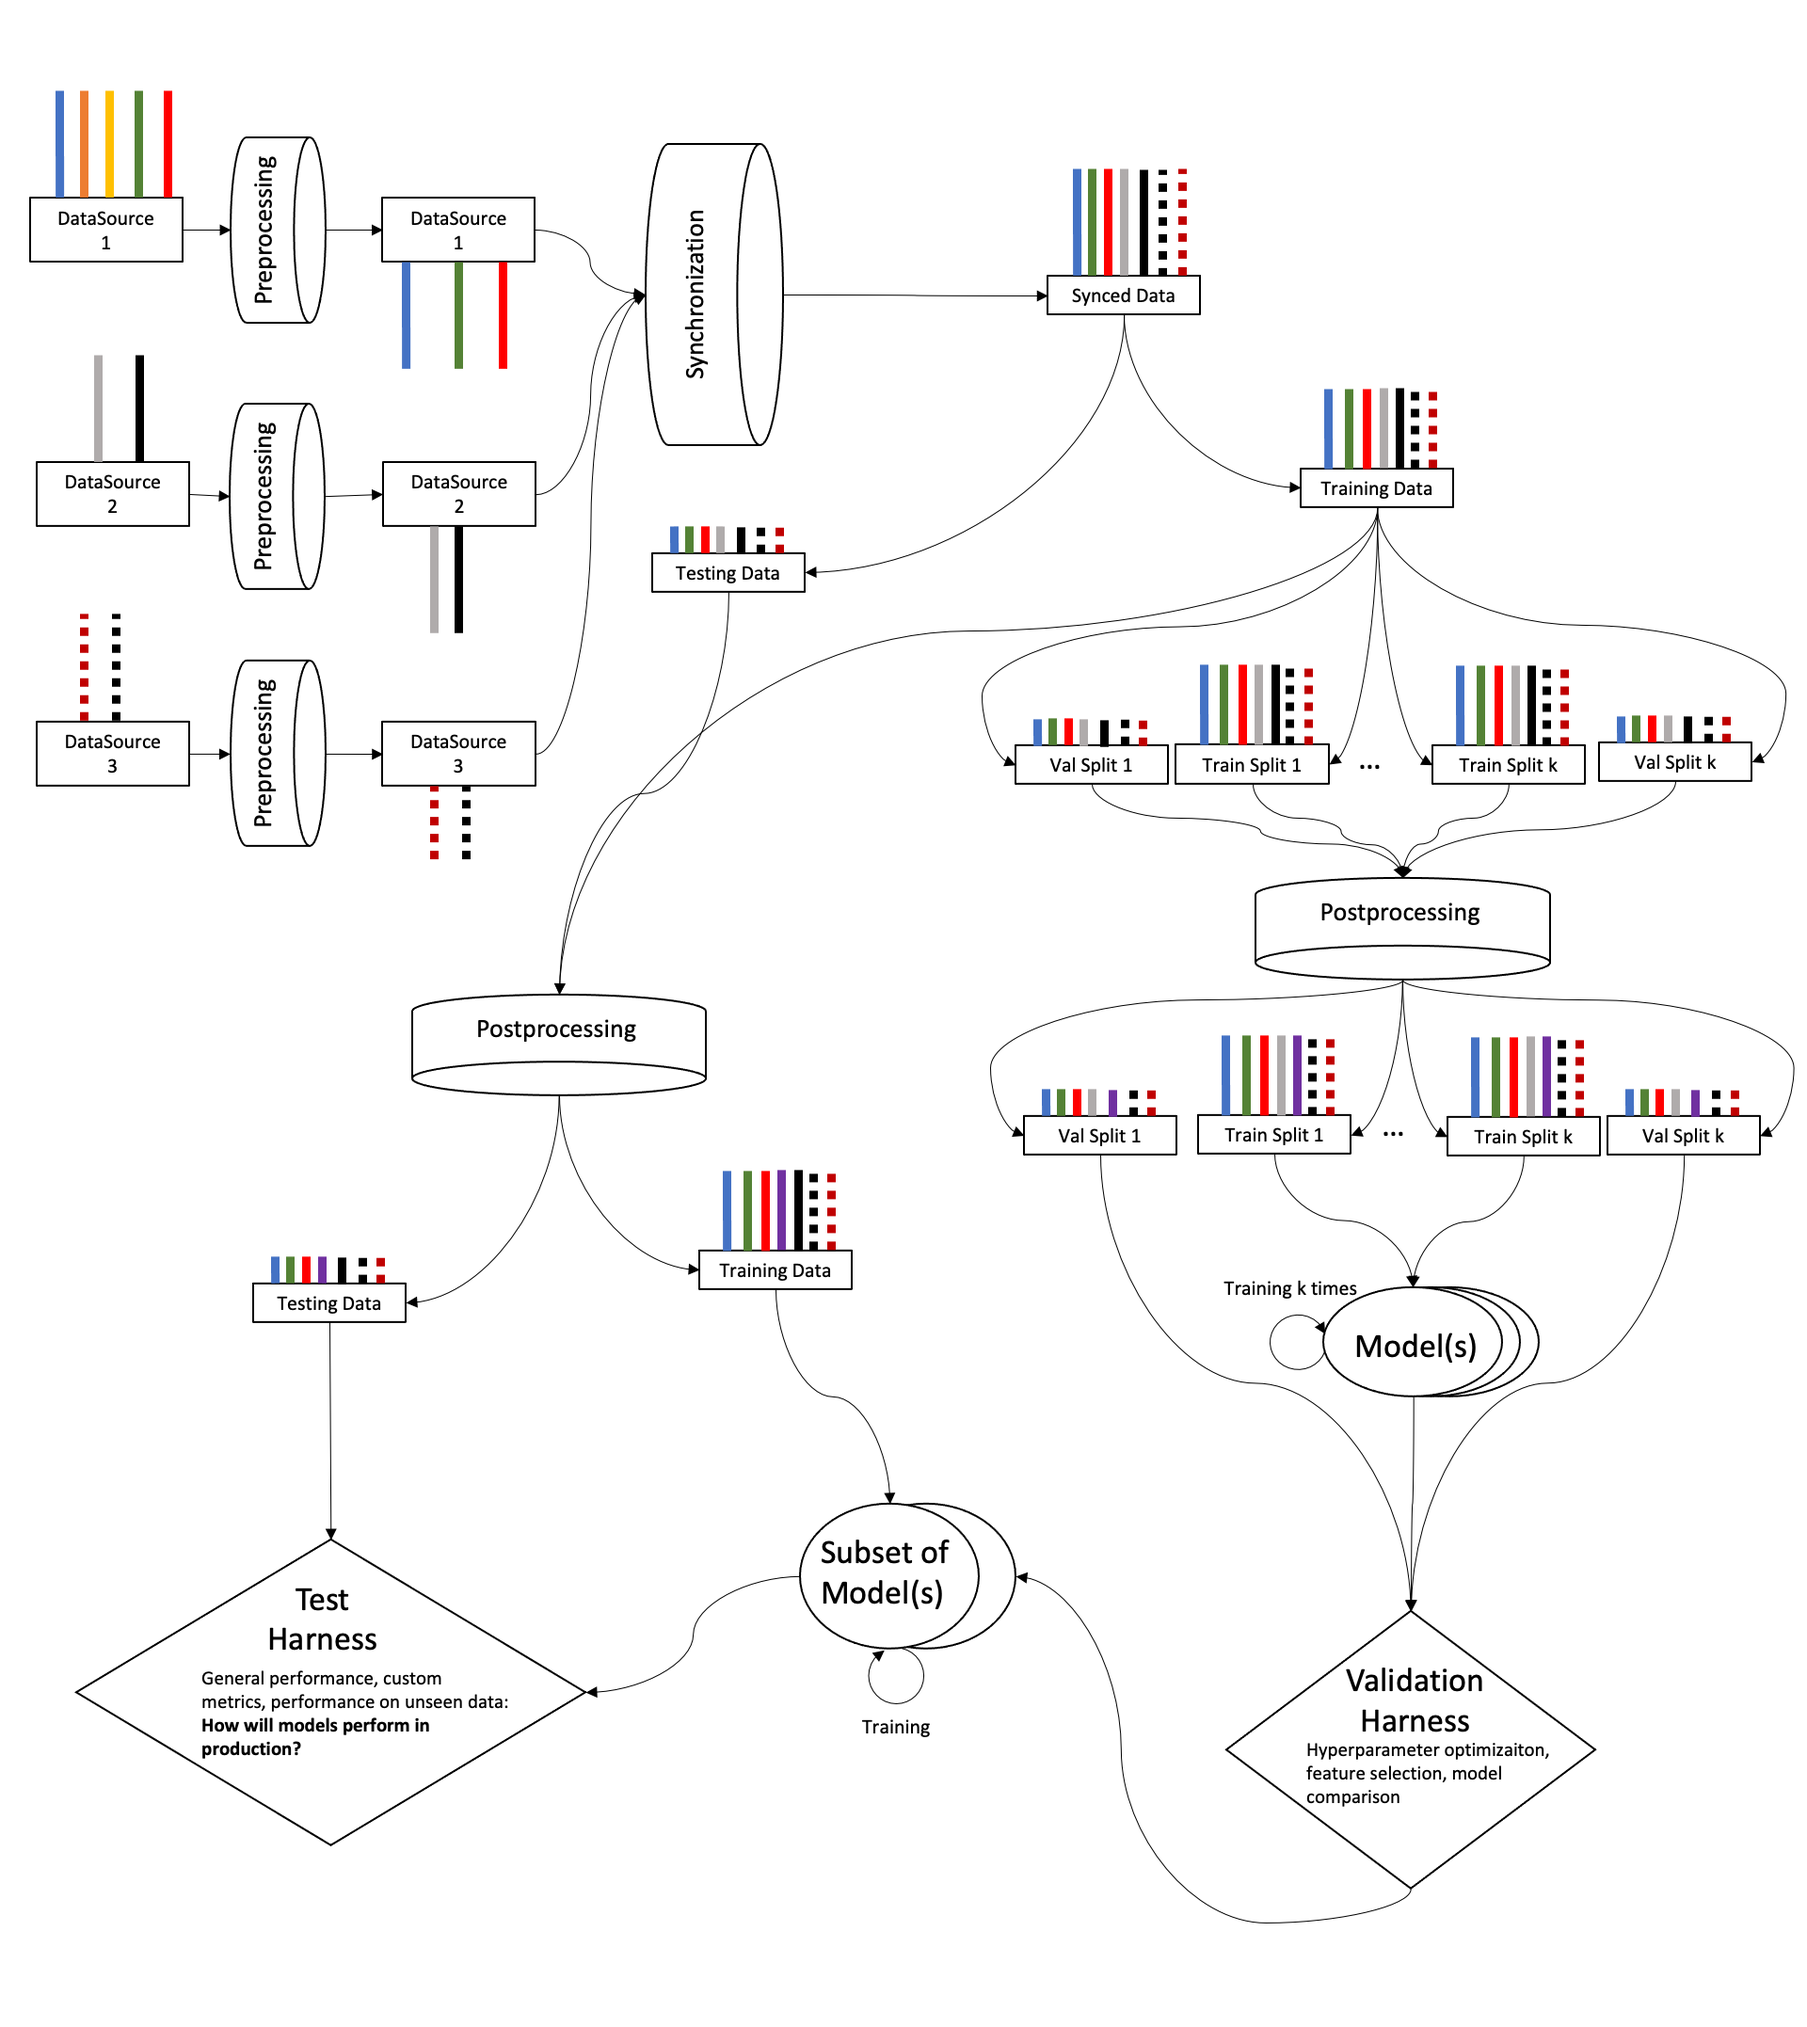
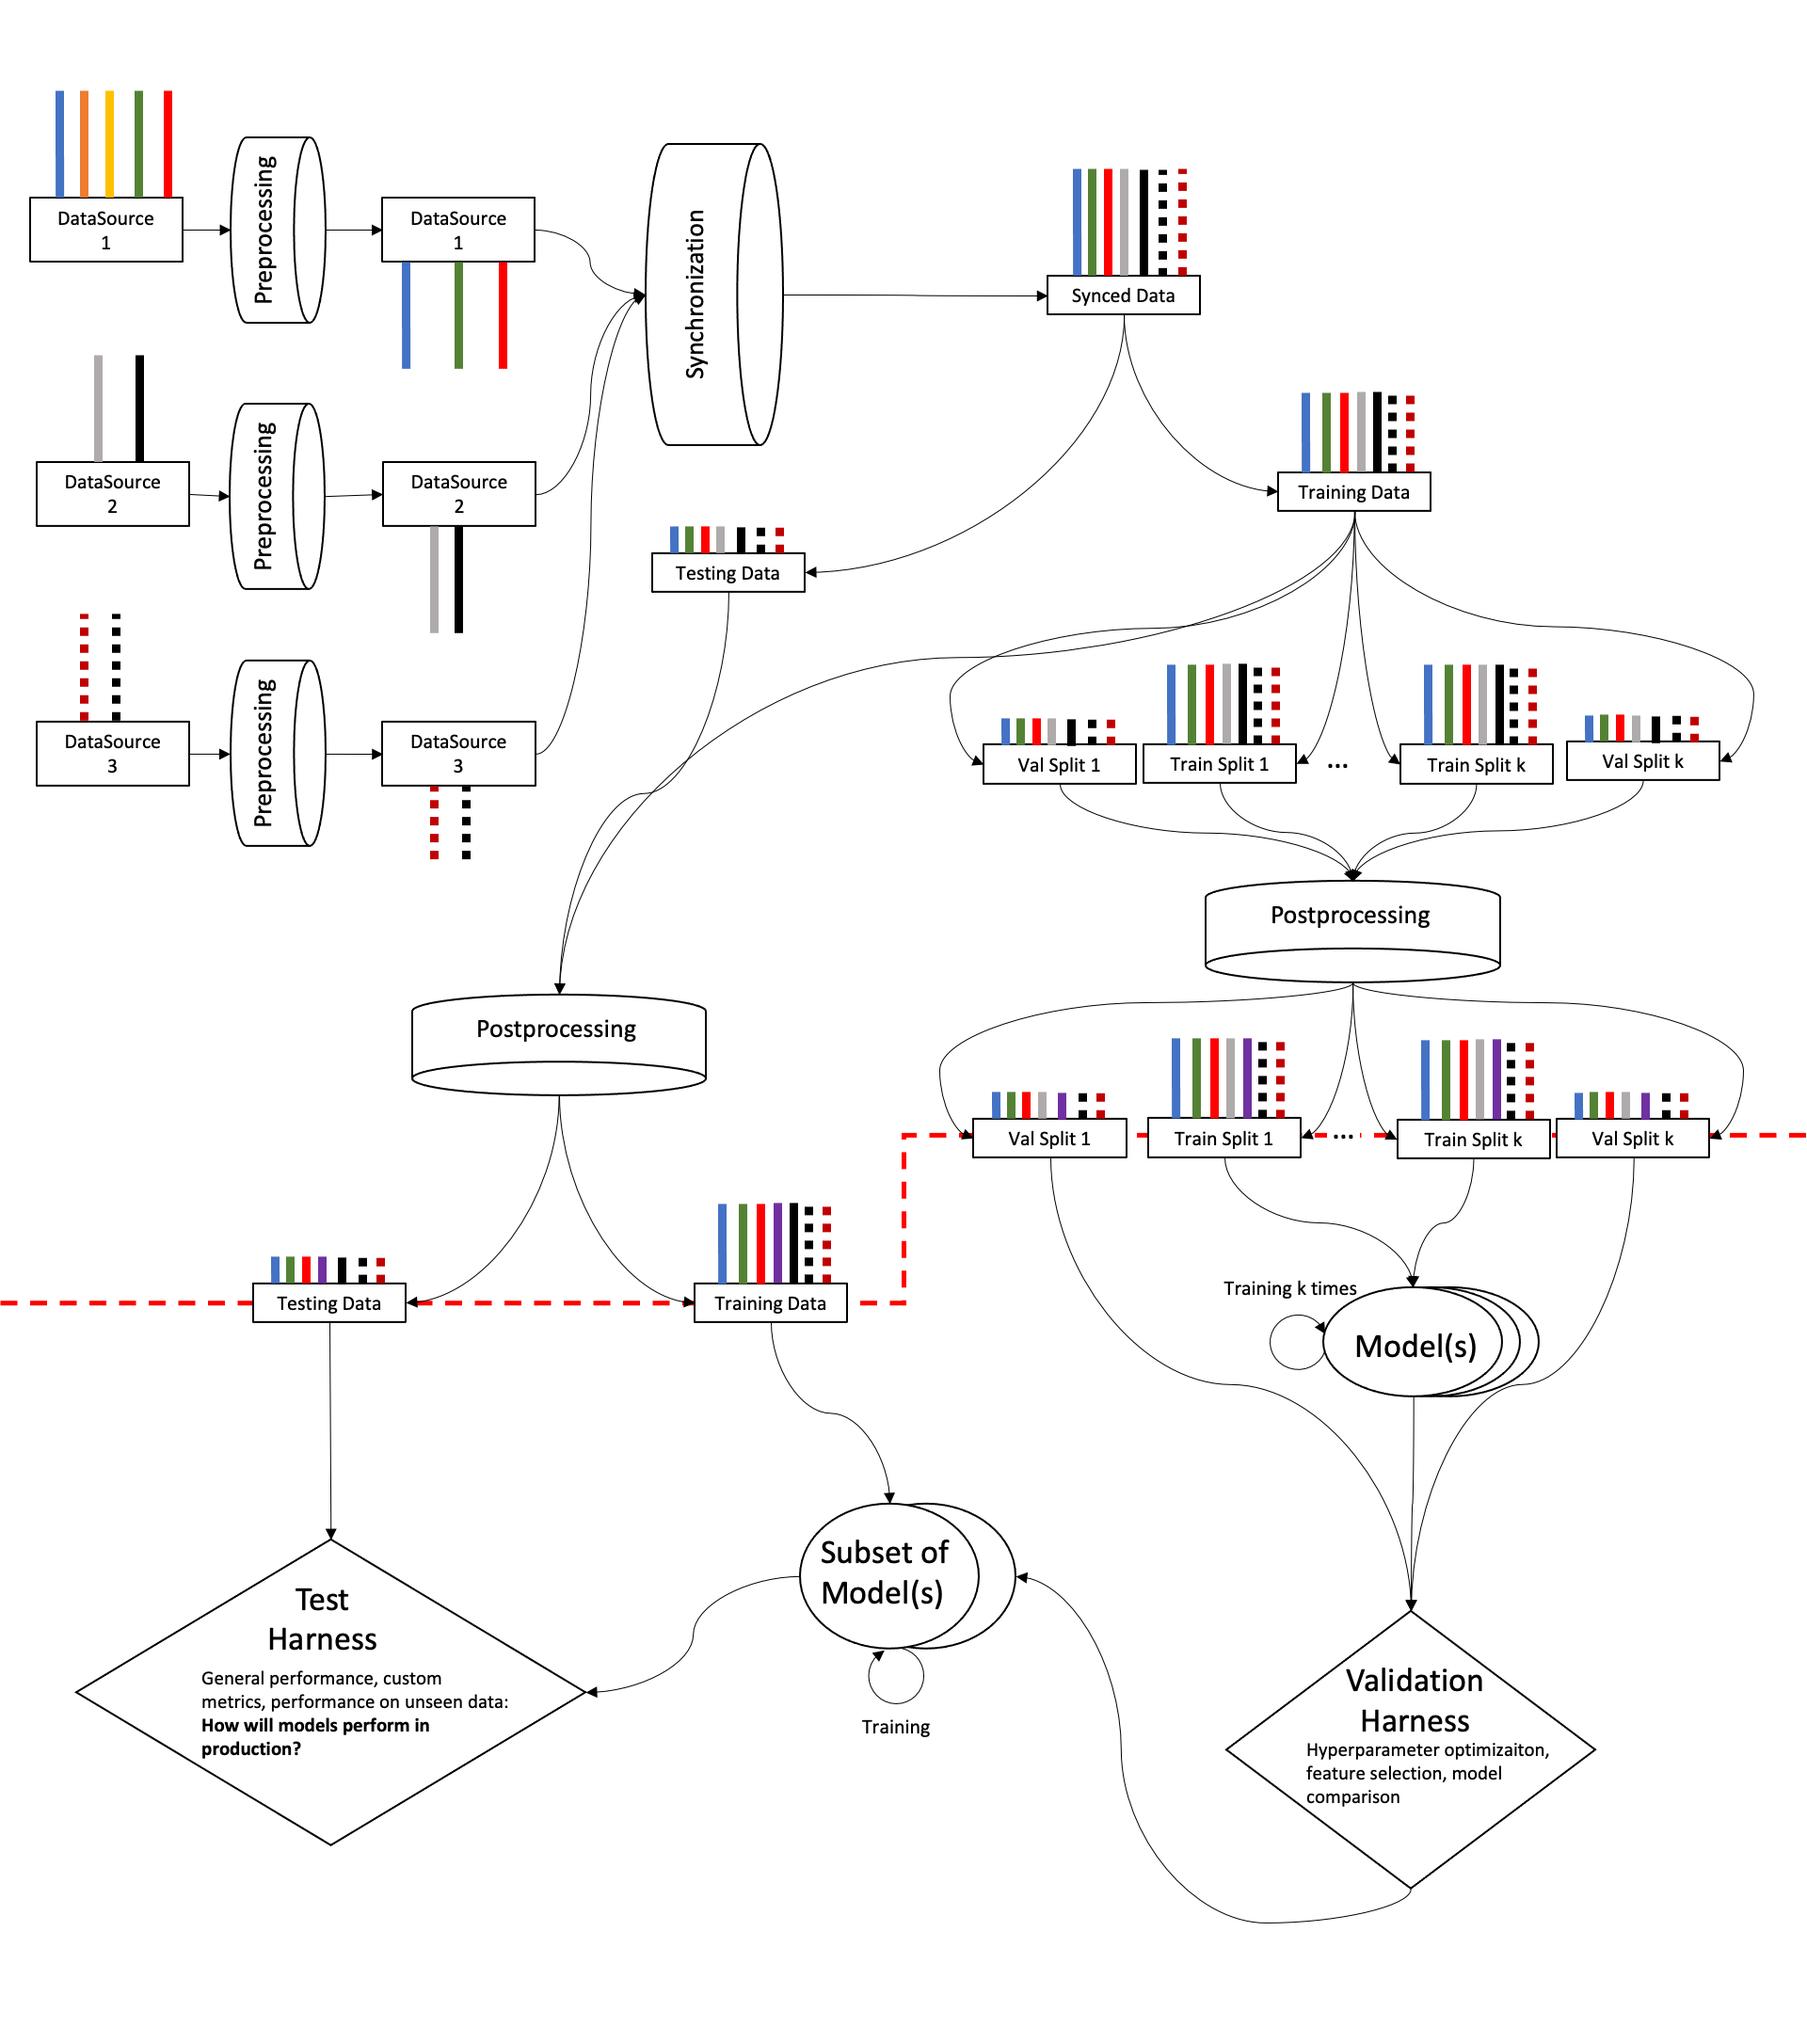
update pipeline flow diagram with distinction between two main steps

diff --git a/docs/pipeline/split/index.html b/docs/pipeline/split/index.html
@@ -30,11 +30,42 @@
 <pre><code class="python">&#34;&#34;&#34;
 Functions for splitting data
 &#34;&#34;&#34;
+from typing import Optional
+import numpy as np
+import pandas as pd
+from nowcastlib.pipeline import structs
 
-def train_test_split_sparse(sparse_df, block_locs=None):
+
+def train_test_split_sparse(
+    sparse_df: pd.core.frame.DataFrame,
+    config: structs.EvaluationOptions,
+    block_locs: Optional[np.ndarray] = None,
+):
     &#34;&#34;&#34;
     Splits a sparse dataframe in train and test sets
+
+    Parameters
+    ---------
+    sparse_df : pandas.core.frame.DataFrame
+        The DataFrame we wish to split into train and test sets
+    config : structs.EvaluationOptions
+        config options for determining where to split our datasets
+    block_locs : numpy.ndarray, default None
+
+    Returns
+    -------
+    train_data : tuple
+        Tuple of length 2 containing the resulting training data.
+        The first element is the dataframe, the second element
+        is the updated accompanying `block_locs` if originally
+        provided, `None` otherwise
+    test_data : tuple
+        Tuple of length 2 containing the resulting testing data.
+        The first element is the dataframe, the second element
+        is the updated accompanying `block_locs` if originally
+        provided, `None` otherwise.
     &#34;&#34;&#34;
+
 
 def rep_holdout_split_sparse(sparse_df, block_locs=None):
     &#34;&#34;&#34;
@@ -51,17 +82,64 @@ def rep_holdout_split_sparse(sparse_df, block_locs=None):
 <h2 class="section-title" id="header-functions">Functions</h2>
 <dl>
 <dt id="nowcastlib.pipeline.split.train_test_split_sparse"><code class="name flex">
-<span>def <span class="ident">train_test_split_sparse</span></span>(<span>sparse_df, block_locs=None)</span>
+<span>def <span class="ident">train_test_split_sparse</span></span>(<span>sparse_df: pandas.core.frame.DataFrame, config: <a title="nowcastlib.pipeline.structs.EvaluationOptions" href="../structs.html#nowcastlib.pipeline.structs.EvaluationOptions">EvaluationOptions</a>, block_locs: Union[numpy.ndarray, NoneType] = None)</span>
 </code></dt>
 <dd>
-<div class="desc"><p>Splits a sparse dataframe in train and test sets</p></div>
+<div class="desc"><p>Splits a sparse dataframe in train and test sets</p>
+<h2 id="parameters">Parameters</h2>
+<dl>
+<dt><strong><code>sparse_df</code></strong> :&ensp;<code>pandas.core.frame.DataFrame</code></dt>
+<dd>The DataFrame we wish to split into train and test sets</dd>
+<dt><strong><code>config</code></strong> :&ensp;<code>structs.EvaluationOptions</code></dt>
+<dd>config options for determining where to split our datasets</dd>
+<dt><strong><code>block_locs</code></strong> :&ensp;<code>numpy.ndarray</code>, default <code>None</code></dt>
+<dd>&nbsp;</dd>
+</dl>
+<h2 id="returns">Returns</h2>
+<dl>
+<dt><strong><code>train_data</code></strong> :&ensp;<code>tuple</code></dt>
+<dd>Tuple of length 2 containing the resulting training data.
+The first element is the dataframe, the second element
+is the updated accompanying <code>block_locs</code> if originally
+provided, <code>None</code> otherwise</dd>
+<dt><strong><code>test_data</code></strong> :&ensp;<code>tuple</code></dt>
+<dd>Tuple of length 2 containing the resulting testing data.
+The first element is the dataframe, the second element
+is the updated accompanying <code>block_locs</code> if originally
+provided, <code>None</code> otherwise.</dd>
+</dl></div>
 <details class="source">
 <summary>
 <span>Expand source code</span>
 </summary>
-<pre><code class="python">def train_test_split_sparse(sparse_df, block_locs=None):
+<pre><code class="python">def train_test_split_sparse(
+    sparse_df: pd.core.frame.DataFrame,
+    config: structs.EvaluationOptions,
+    block_locs: Optional[np.ndarray] = None,
+):
     &#34;&#34;&#34;
     Splits a sparse dataframe in train and test sets
+
+    Parameters
+    ---------
+    sparse_df : pandas.core.frame.DataFrame
+        The DataFrame we wish to split into train and test sets
+    config : structs.EvaluationOptions
+        config options for determining where to split our datasets
+    block_locs : numpy.ndarray, default None
+
+    Returns
+    -------
+    train_data : tuple
+        Tuple of length 2 containing the resulting training data.
+        The first element is the dataframe, the second element
+        is the updated accompanying `block_locs` if originally
+        provided, `None` otherwise
+    test_data : tuple
+        Tuple of length 2 containing the resulting testing data.
+        The first element is the dataframe, the second element
+        is the updated accompanying `block_locs` if originally
+        provided, `None` otherwise.
     &#34;&#34;&#34;</code></pre>
 </details>
 </dd>

diff --git a/docs/pipeline/index.html b/docs/pipeline/index.html
@@ -97,26 +97,31 @@ from . import structs
 from . import preprocess
 from . import sync
 from . import split
-# from . import postprocess
+from . import postprocess
 
 
-# def pipe_dataset(config: structs.DataSet):
-#     &#34;&#34;&#34;
-#     Runs all configured steps of the Nowcast Library Pipeline
-#     on a set of data described by the input DataSet instance
-#     &#34;&#34;&#34;
-#     preprocessed_dfs = preprocess.preprocess_dataset(config)
-
-#     chunked_df, chunk_locs = sync.synchronize_dataset(config, preprocessed_dfs)
-
-#     train_chunked_df, test_chunked_df = split.train_test_split_sparse(
-#         chunked_df, chunk_locs
-#     )
-#     val_train_data, val_test_data = split.rep_holdout_split(train_data, config)
-
-#     val_train_data, val_test_data = postproces.postprocess_dataset(
-#         config, val_train_data, val_test_data
-#     )</code></pre>
+def pipe_dataset(config: structs.DataSet):
+    &#34;&#34;&#34;
+    Runs all configured steps of the Nowcast Library Pipeline
+    on a set of data described by the input DataSet instance
+    &#34;&#34;&#34;
+    # preprocessing
+    preprocessed_dfs = preprocess.preprocess_dataset(config)
+    # syncing
+    chunked_df, chunk_locs = sync.synchronize_dataset(config, preprocessed_dfs)
+    # splitting
+    # outer train and test split
+    train_data, test_data = split.train_test_split_sparse(
+        chunked_df, config, chunk_locs
+    )
+    # inner train and validation split(s)
+    val_train, val_test = split.rep_holdout_split(train_data[0], config)
+    # postprocessing
+    proc_val_train, proc_val_test = postprocess.postprocess_dataset(
+        config,
+        val_train[0],
+        val_test_data[0],
+    )</code></pre>
 </details>
 </section>
 <section>
@@ -153,6 +158,43 @@ Classes listed here should be viewed as dictionaries, with class
 <section>
 </section>
 <section>
+<h2 class="section-title" id="header-functions">Functions</h2>
+<dl>
+<dt id="nowcastlib.pipeline.pipe_dataset"><code class="name flex">
+<span>def <span class="ident">pipe_dataset</span></span>(<span>config: <a title="nowcastlib.pipeline.structs.DataSet" href="structs.html#nowcastlib.pipeline.structs.DataSet">DataSet</a>)</span>
+</code></dt>
+<dd>
+<div class="desc"><p>Runs all configured steps of the Nowcast Library Pipeline
+on a set of data described by the input DataSet instance</p></div>
+<details class="source">
+<summary>
+<span>Expand source code</span>
+</summary>
+<pre><code class="python">def pipe_dataset(config: structs.DataSet):
+    &#34;&#34;&#34;
+    Runs all configured steps of the Nowcast Library Pipeline
+    on a set of data described by the input DataSet instance
+    &#34;&#34;&#34;
+    # preprocessing
+    preprocessed_dfs = preprocess.preprocess_dataset(config)
+    # syncing
+    chunked_df, chunk_locs = sync.synchronize_dataset(config, preprocessed_dfs)
+    # splitting
+    # outer train and test split
+    train_data, test_data = split.train_test_split_sparse(
+        chunked_df, config, chunk_locs
+    )
+    # inner train and validation split(s)
+    val_train, val_test = split.rep_holdout_split(train_data[0], config)
+    # postprocessing
+    proc_val_train, proc_val_test = postprocess.postprocess_dataset(
+        config,
+        val_train[0],
+        val_test_data[0],
+    )</code></pre>
+</details>
+</dd>
+</dl>
 </section>
 <section>
 </section>
@@ -187,6 +229,11 @@ Classes listed here should be viewed as dictionaries, with class
 <li><code><a title="nowcastlib.pipeline.structs" href="structs.html">nowcastlib.pipeline.structs</a></code></li>
 <li><code><a title="nowcastlib.pipeline.sync" href="sync/index.html">nowcastlib.pipeline.sync</a></code></li>
 <li><code><a title="nowcastlib.pipeline.utils" href="utils.html">nowcastlib.pipeline.utils</a></code></li>
+</ul>
+</li>
+<li><h3><a href="#header-functions">Functions</a></h3>
+<ul class="">
+<li><code><a title="nowcastlib.pipeline.pipe_dataset" href="#nowcastlib.pipeline.pipe_dataset">pipe_dataset</a></code></li>
 </ul>
 </li>
 </ul>

diff --git a/docs/pipeline/structs.html b/docs/pipeline/structs.html
@@ -361,6 +361,7 @@ class ValidationOptions:
     train_extent: Optional[float] = attrib(default=0.6, validator=[_normed_val])
     val_extent: Optional[float] = attrib(default=0.1, validator=[_normed_val])
     iterations: Optional[int] = attrib(default=5)
+
     @iterations.validator
     def at_least_3(self, attribute, value):
         &#34;&#34;&#34;ensures at least 3 iterations are used for validation&#34;&#34;&#34;
@@ -381,6 +382,10 @@ class EvaluationOptions:
     &#34;&#34;&#34;
 
     train_split: Union[int, float, str] = attrib()
+    &#34;&#34;&#34;
+    The index, percentage or date to use as the final
+    point in the training set. The closest non-nan row will be used.
+    &#34;&#34;&#34;
     validation: ValidationOptions = attrib()
 
 
@@ -1010,6 +1015,7 @@ configuring model validation</p>
     train_extent: Optional[float] = attrib(default=0.6, validator=[_normed_val])
     val_extent: Optional[float] = attrib(default=0.1, validator=[_normed_val])
     iterations: Optional[int] = attrib(default=5)
+
     @iterations.validator
     def at_least_3(self, attribute, value):
         &#34;&#34;&#34;ensures at least 3 iterations are used for validation&#34;&#34;&#34;
@@ -1080,13 +1086,18 @@ model evaluation</p>
     &#34;&#34;&#34;
 
     train_split: Union[int, float, str] = attrib()
+    &#34;&#34;&#34;
+    The index, percentage or date to use as the final
+    point in the training set. The closest non-nan row will be used.
+    &#34;&#34;&#34;
     validation: ValidationOptions = attrib()</code></pre>
 </details>
 <h3>Class variables</h3>
 <dl>
 <dt id="nowcastlib.pipeline.structs.EvaluationOptions.train_split"><code class="name">var <span class="ident">train_split</span> : Union[int, float, str]</code></dt>
 <dd>
-<div class="desc"></div>
+<div class="desc"><p>The index, percentage or date to use as the final
+point in the training set. The closest non-nan row will be used.</p></div>
 </dd>
 <dt id="nowcastlib.pipeline.structs.EvaluationOptions.validation"><code class="name">var <span class="ident">validation</span> : <a title="nowcastlib.pipeline.structs.ValidationOptions" href="#nowcastlib.pipeline.structs.ValidationOptions">ValidationOptions</a></code></dt>
 <dd>
